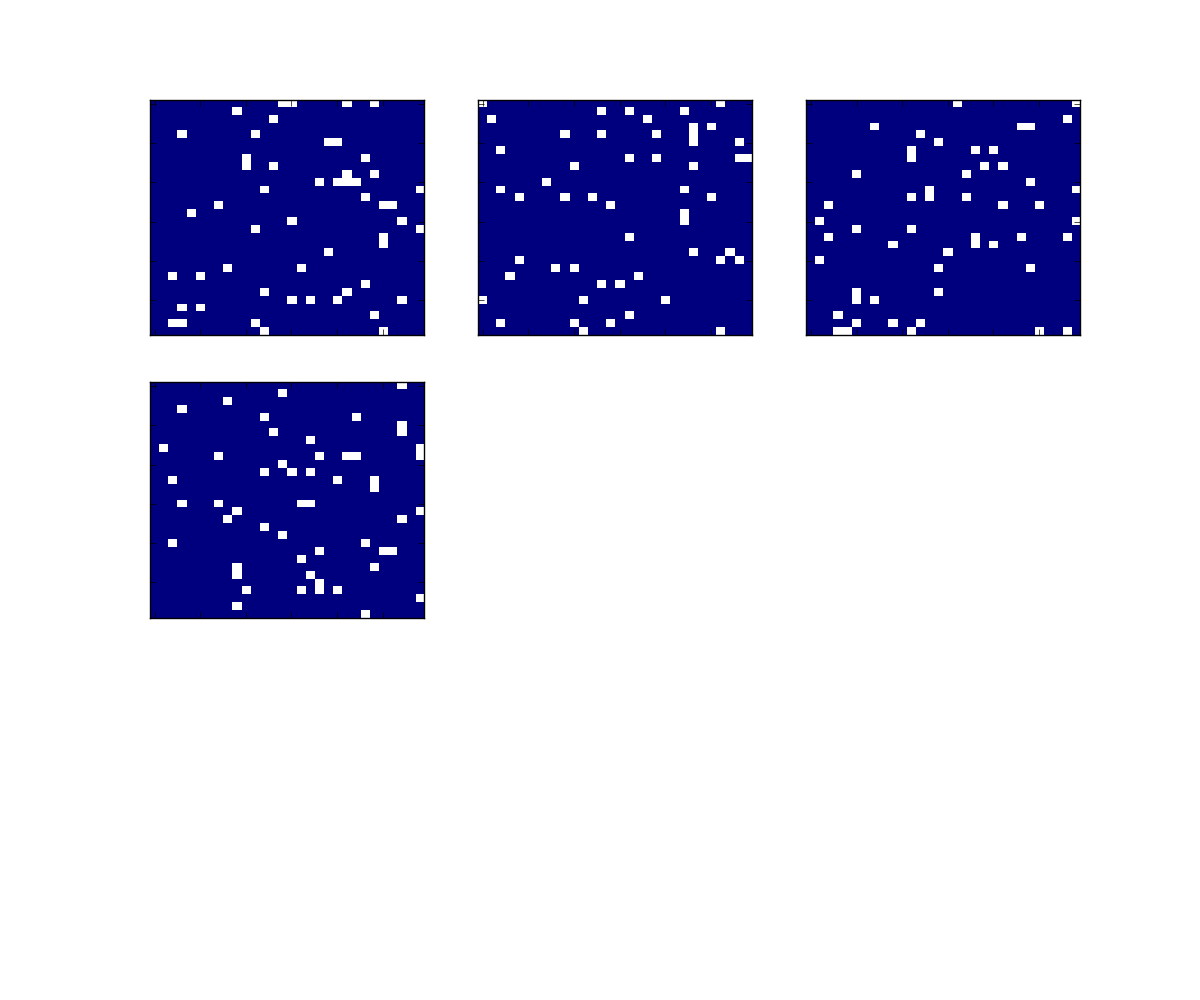
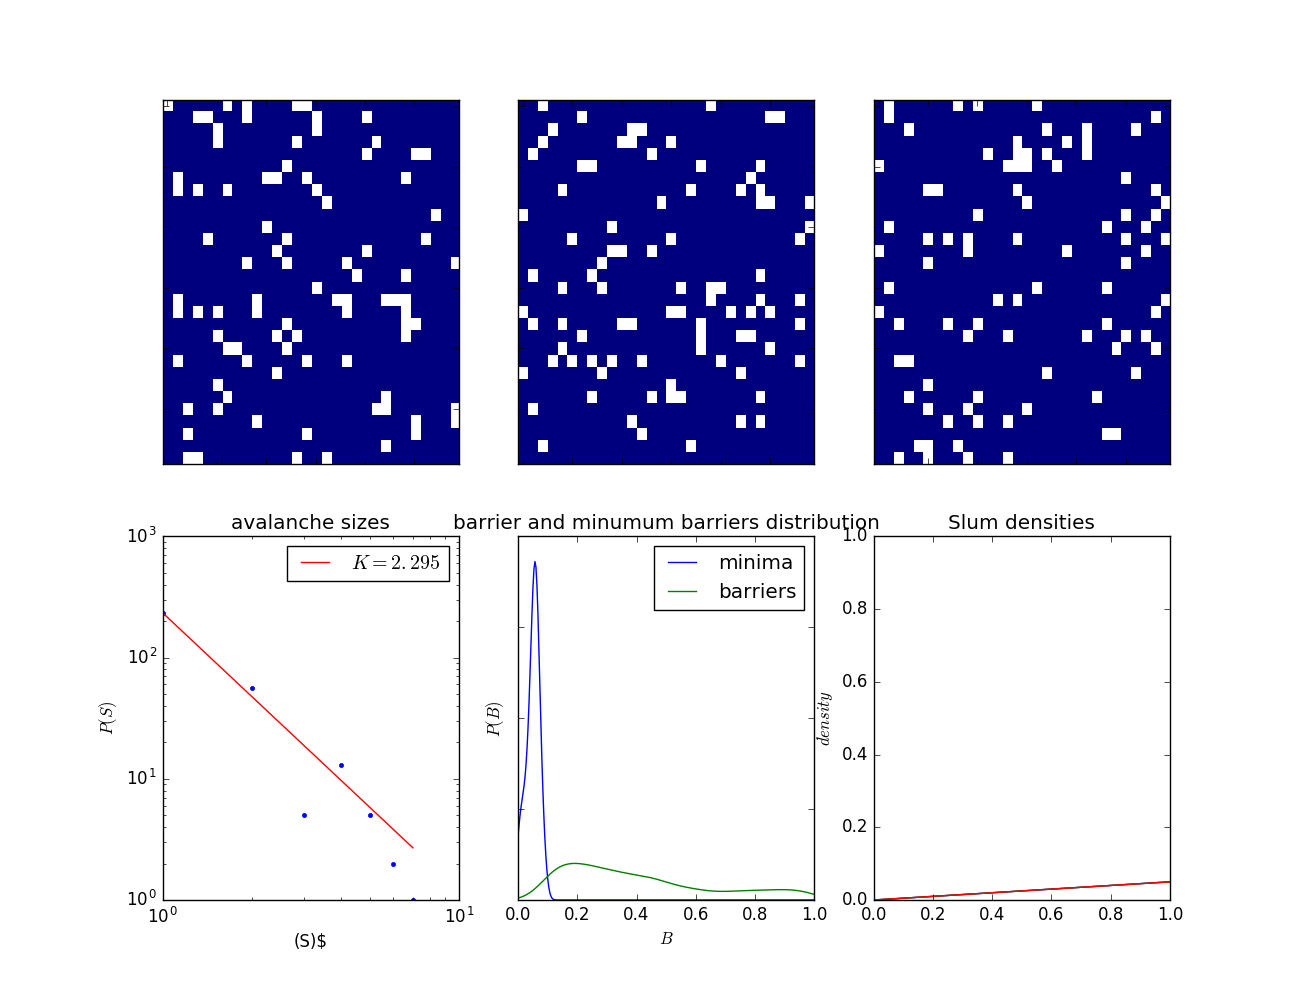
multiple animate

diff --git a/code/slumnetwork.py b/code/slumnetwork.py
@@ -591,7 +591,7 @@ class Slums(object):
         cols = ceil(size ** 0.5) + 1
         rows = ceil(size / cols)
 
-        figure = plt.figure(figsize=(12, 10))
+        figure = plt.figure(figsize=(13, 10))
 
         for i in range(size):
             slumaxarr.append(plt.subplot2grid((1 + rows, cols), (i // cols , (i % cols))))
@@ -621,7 +621,6 @@ class Slums(object):
         # n_slums is used in the nested animate function.
         # pylint: disable=unused-variable
         figure, imgs, rows, cols, n_slums, slumaxarr = self.setup_slum_anim(cmap, max_age)
-        plt.savefig('../docs/videos/slum_multiple.png')
         x_list = [x for x in sorted(list(set(self.avalanche_sizes[-1]))) if x != 0]
         y_list = [self.avalanche_sizes[-1].count(x) for x in x_list]
 
@@ -753,6 +752,7 @@ class Slums(object):
                 for img in imgs:
                     img.set_array(-np.ones((self.slum_size, self.slum_size)))
 
+        plt.savefig('../docs/videos/slum_multiple.png')
         ani = animation.FuncAnimation(figure, animate, range(0, len(self.states)), interval=2,
                                     blit=False)
         ani.save('../docs/videos/slum_multiple.gif', writer='imagemagick')
@@ -998,7 +998,7 @@ def main():
     '''
     # empty_percent_parameter_plot(10, 10, 1000)
 
-    slums = Slums(4, (30, 30), empty_percent=0.06, time_limit=500, static_people=True, static_slums=True)
+    slums = Slums(3, (30, 30), empty_percent=0.1, time_limit=500, static_people=True, static_slums=True)
     # nrofslums_parameter_plot(np.linspace(1,5,5), 10, 1000)
     # singleslumsize_parameter_plot(np.linspace(5,50,10), 10, 1000)
 
